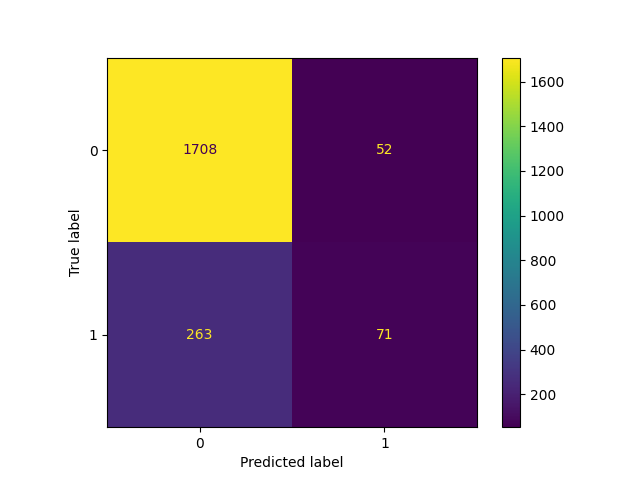
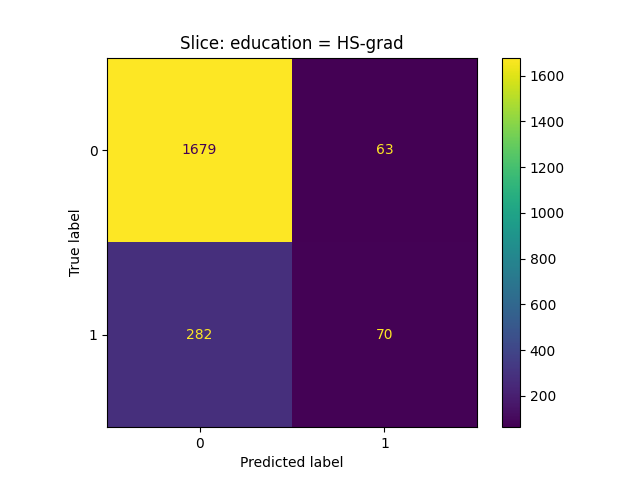
updated slice plots

diff --git a/starter/starter/train_model.py b/starter/starter/train_model.py
@@ -9,6 +9,7 @@ from ml.model import train_model, inference, compute_model_metrics
 import joblib
 from sklearn.metrics import confusion_matrix
 from sklearn.metrics import ConfusionMatrixDisplay
+import matplotlib.pyplot as plt
 import logging
 logging.basicConfig(level=logging.INFO)
 
@@ -52,6 +53,7 @@ def slice_performance(model, local_df, slice):
     disp = ConfusionMatrixDisplay(confusion_matrix=c_matrix,
                                   display_labels=[0, 1])
     disp.plot()
+    plt.title(f"Slice: {feature} = {value}")
     disp.figure_.savefig(f'starter/screenshots/{feature}_{value}_c_matrix.png')
 
     return precision, recall, fbeta, c_matrix
@@ -145,6 +147,7 @@ logging.info(f"Confusion Matrix: {c_matrix}")
 disp = ConfusionMatrixDisplay(confusion_matrix=c_matrix,
                               display_labels=[0, 1])
 disp.plot()
+plt.title("Confusion Matrix")
 disp.figure_.savefig('starter/screenshots/c_matrix.png')
 
 #
